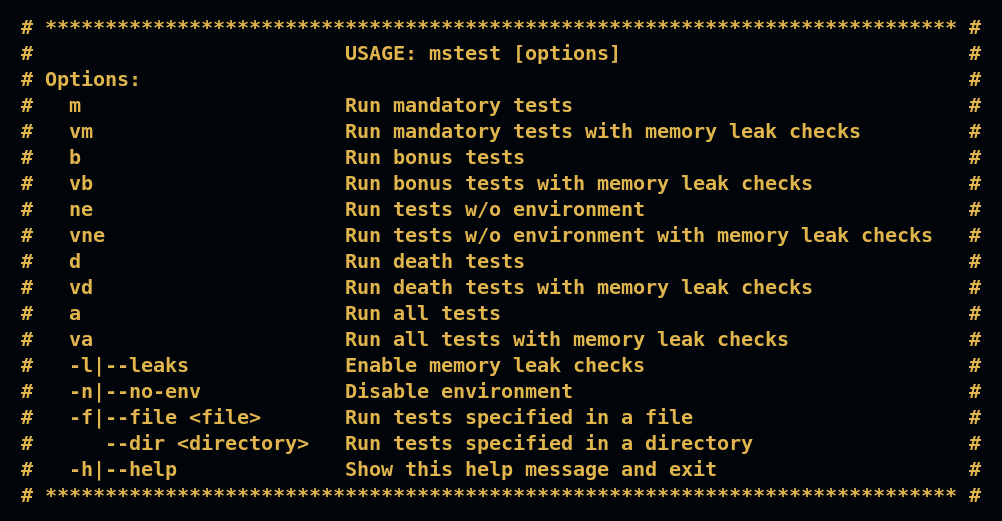
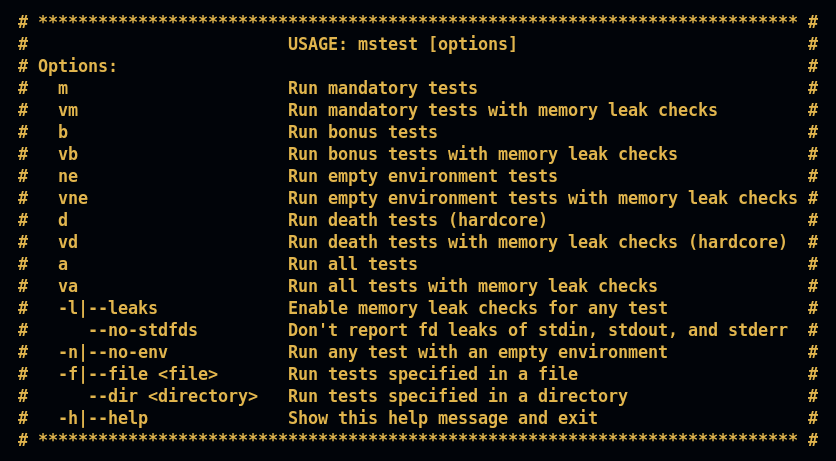
doc: Update help message and readme examples

Changed region(s): [[0.0, 0.0304, 0.9952, 0.9718]]

diff --git a/README.md b/README.md
@@ -71,16 +71,16 @@ mstest b  # Run bonus tests
 mstest vb  # Run bonus tests with memory leak checks
 ```
 ```
-mstest ne  # Run tests without environment
+mstest ne  # Run empty environment tests
 ```
 ```
-mstest vne  # Run tests without environment with memory leak checks
+mstest vne  # Run empty environment tests with memory leak checks
 ```
 ```
-mstest d  # Run death tests
+mstest d  # Run death tests (hardcore)
 ```
 ```
-mstest vd  # Run death tests with memory leak checks
+mstest vd  # Run death tests with memory leak checks (hardcore)
 ```
 ```
 mstest a  # Run all tests
@@ -89,10 +89,13 @@ mstest a  # Run all tests
 mstest va  # Run all tests with memory leak checks
 ```
 ```
-mstest -l  # Enable memory leak checks for any of the above tests
+mstest -l  # Enable memory leak checks for any test
 ```
 ```
-mstest -n  # Disable environment for any of the above tests
+mstest --no-std-fds  # Don't report fd leaks of stdin, stdout, and stderr for any test
+```
+```
+mstest -n  # Run any test with an empty environment
 ```
 ```
 mstest -f <file>  # Run tests specified in a file
